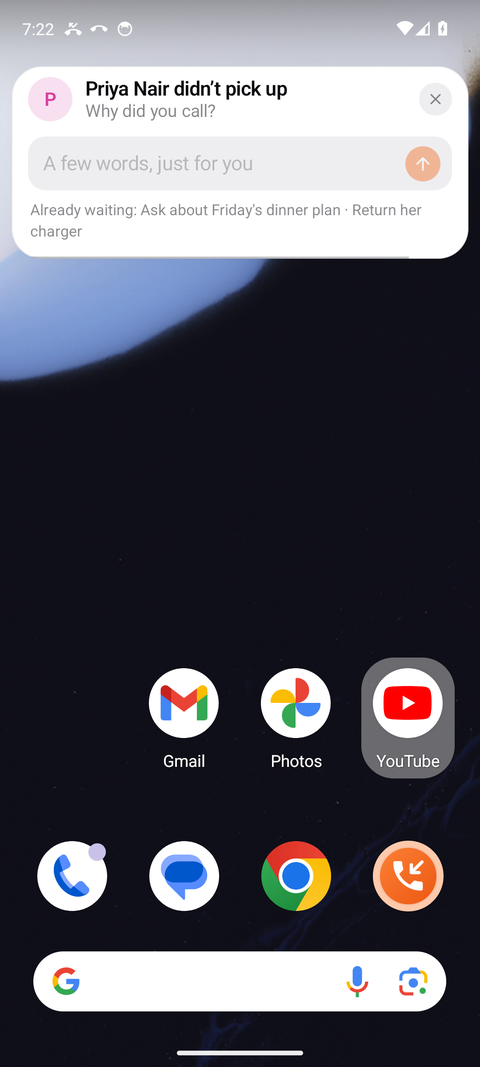
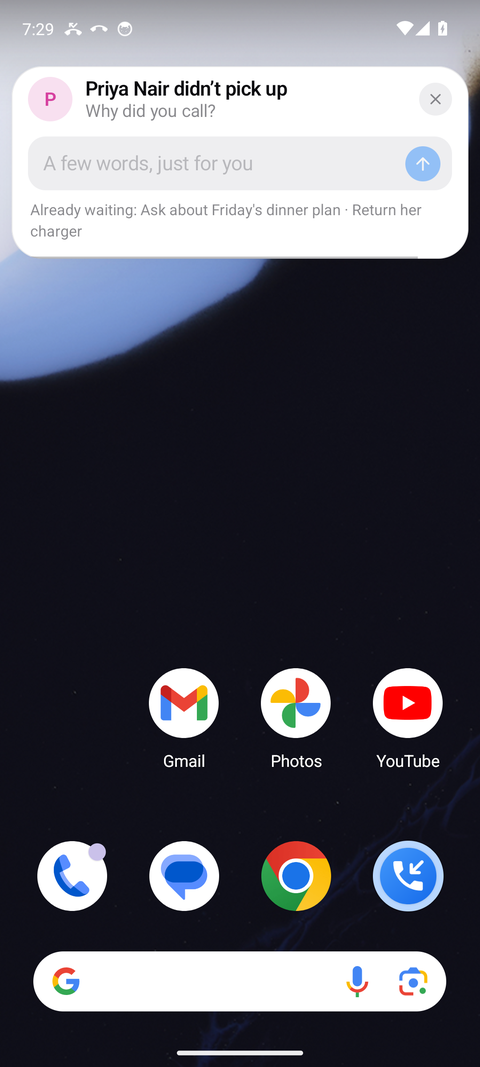
Recal 1.0.1: blue accent
Replace the orange accent with an iOS-style blue across the app, launcher
icon, README badge and screenshots.

Changed region(s): [[0.75, 0.6186, 0.9688, 0.7423], [0.7812, 0.7732, 0.9375, 0.866], [0.8438, 0.1237, 0.9375, 0.1856]]

diff --git a/app/src/main/java/app/recal/ui/Theme.kt b/app/src/main/java/app/recal/ui/Theme.kt
@@ -44,9 +44,9 @@ private val Light = RecalColors(
     secondary = Color(0x993C3C43),
     tertiary = Color(0x4D3C3C43),
     separator = Color(0x1F3C3C43),
-    accent = Color(0xFFF2600C),
+    accent = Color(0xFF0A7AFF),
     onAccent = Color(0xFFFFFFFF),
-    accentSoft = Color(0x1FF2600C),
+    accentSoft = Color(0x1F0A7AFF),
     positive = Color(0xFF28A745),
     destructive = Color(0xFFE5342B),
     isDark = false,
@@ -61,9 +61,9 @@ private val Dark = RecalColors(
     secondary = Color(0x99EBEBF5),
     tertiary = Color(0x4DEBEBF5),
     separator = Color(0x29EBEBF5),
-    accent = Color(0xFFFF8A3D),
-    onAccent = Color(0xFF1A0A00),
-    accentSoft = Color(0x33FF8A3D),
+    accent = Color(0xFF3D9BFF),
+    onAccent = Color(0xFF001A33),
+    accentSoft = Color(0x333D9BFF),
     positive = Color(0xFF32D05A),
     destructive = Color(0xFFFF5147),
     isDark = true,

diff --git a/app/src/main/java/app/recal/ui/Components.kt b/app/src/main/java/app/recal/ui/Components.kt
@@ -112,7 +112,7 @@ fun PillButton(
 @Composable
 fun Avatar(label: String, size: Dp = 44.dp, modifier: Modifier = Modifier) {
     val palette = listOf(
-        Color(0xFFF2600C), Color(0xFF2F7CF6), Color(0xFF7A5AF8), Color(0xFF12A594),
+        Color(0xFF5B6EE1), Color(0xFFD6702A), Color(0xFF7A5AF8), Color(0xFF12A594),
         Color(0xFFE5484D), Color(0xFFD6409F), Color(0xFF3E9B4F), Color(0xFFB8860B),
     )
     val tint = palette[(label.hashCode() and 0x7fffffff) % palette.size]

diff --git a/README.md b/README.md
@@ -9,7 +9,7 @@
 A tiny, offline Android utility. When someone doesn't pick up, Recal asks *why you called*.
 When they ring back, your reason is already on screen. Once you've talked, it clears itself.
 
-[![Latest release](https://img.shields.io/github/v/release/manojanasuri16/Recal?color=F2600C&label=release)](https://github.com/manojanasuri16/Recal/releases/latest)
+[![Latest release](https://img.shields.io/github/v/release/manojanasuri16/Recal?color=0A7AFF&label=release)](https://github.com/manojanasuri16/Recal/releases/latest)
 [![License: MIT](https://img.shields.io/badge/license-MIT-blue.svg)](LICENSE)
 ![Android 8.0+](https://img.shields.io/badge/Android-8.0%2B-3DDC84?logo=android&logoColor=white)
 ![No internet permission](https://img.shields.io/badge/internet-none-success)
@@ -73,7 +73,7 @@ read what you wrote last time, add a line, move on.
 
 ## Install
 
-1. Download **`Recal-1.0.0.apk`** from the [latest release](https://github.com/manojanasuri16/Recal/releases/latest).
+1. Download the **APK** from the [latest release](https://github.com/manojanasuri16/Recal/releases/latest).
 2. Open it on your phone and allow installing from your browser or file manager if asked.
 3. Open Recal and follow the three-step setup:
 
